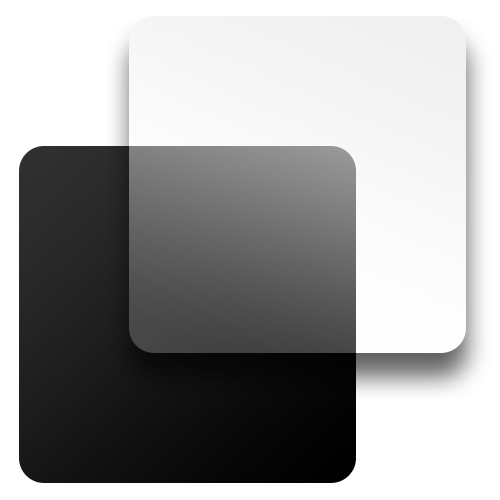
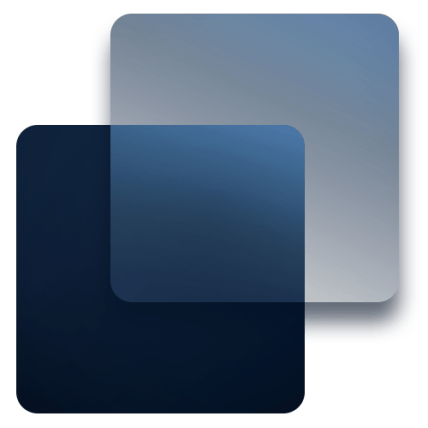
updates

diff --git a/factoryos-10x-shell/Views/Default10xBar.xaml b/factoryos-10x-shell/Views/Default10xBar.xaml
@@ -187,6 +187,7 @@
                 ToolTipService.ToolTip="Task">
                 <Button.Content>
                     <Image
+                        x:Name="taskviewcontent"
                         Width="26"
                         Height="26"
                         Source="ms-appx:///taskview.png"

diff --git a/DesktopMode/Program.cs b/DesktopMode/Program.cs
@@ -14,14 +14,42 @@ namespace DesktopMode
             // see https://aka.ms/applicationconfiguration.
             ApplicationConfiguration.Initialize();
 
-            ProcessStartInfo startInfo = new ProcessStartInfo("taskkill", "/f /im explorer.exe");
-            startInfo.CreateNoWindow = true;
-            startInfo.UseShellExecute = false;
+            KillProcess("factoryos-10x-shell");
+            KillProcess("MobileShellPlus");
+            KillProcess("explorer");
 
-            Process process = new Process();
-            process.StartInfo = startInfo;
-            process.Start();
+            // Restart explorer.exe
+            StartProcess("explorer.exe");
+        }
 
+        static void KillProcess(string processName)
+        {
+            foreach (var process in Process.GetProcessesByName(processName))
+            {
+                try
+                {
+                    process.Kill();
+                    process.WaitForExit();
+                    Console.WriteLine($"{processName} has been killed.");
+                }
+                catch (Exception ex)
+                {
+                    Console.WriteLine($"Error killing {processName}: {ex.Message}");
+                }
+            }
+        }
+
+        static void StartProcess(string processName)
+        {
+            try
+            {
+                Process.Start(processName);
+                Console.WriteLine($"{processName} has been started.");
+            }
+            catch (Exception ex)
+            {
+                Console.WriteLine($"Error starting {processName}: {ex.Message}");
+            }
         }
     }
 }

diff --git a/PowerDialogRewrite/App.xaml.cs b/PowerDialogRewrite/App.xaml.cs
@@ -38,7 +38,7 @@ namespace PowerDialogRewrite
         /// serão usados, por exemplo, quando o aplicativo for iniciado para abrir um arquivo específico.
         /// </summary>
         /// <param name="e">Detalhes sobre a solicitação e o processo de inicialização.</param>
-        protected override void OnLaunchedAsync(LaunchActivatedEventArgs e)
+        protected override void OnLaunched(LaunchActivatedEventArgs e)
         {
             Frame rootFrame = Window.Current.Content as Frame;
 
@@ -97,6 +97,7 @@ namespace PowerDialogRewrite
                 Window.Current.Activate();
             }
 
+            ApplicationView.PreferredLaunchWindowingMode = ApplicationViewWindowingMode.FullScreen;
             var view = ApplicationView.GetForCurrentView();
             view.FullScreenSystemOverlayMode = FullScreenSystemOverlayMode.Minimal;
 

diff --git a/factoryos-10x-shell/Views/Default10xBar.xaml.cs b/factoryos-10x-shell/Views/Default10xBar.xaml.cs
@@ -17,6 +17,7 @@ using factoryos_10x_shell.Services.Navigation;
 using factoryos_10x_shell.Library.Services.Navigation;
 using Windows.UI.Xaml.Media;
 using Windows.UI;
+using Windows.UI.Xaml.Media.Imaging;
 
 
 namespace factoryos_10x_shell.Views
@@ -28,6 +29,16 @@ namespace factoryos_10x_shell.Views
             this.InitializeComponent();
 
             DataContext = App.ServiceProvider.GetRequiredService<Default10xBarViewModel>();
+
+            if (this.RequestedTheme == ElementTheme.Light)
+            {
+                taskviewcontent.Source = new BitmapImage(new Uri("ms-appx:///taskview.png"));
+            }
+            else
+            {
+                taskviewcontent.Source = new BitmapImage(new Uri("ms-appx:///taskviewColorWide.png"));
+            }
+
         }
 
 

diff --git a/PowerDialogRewrite/MainPage.xaml.cs b/PowerDialogRewrite/MainPage.xaml.cs
@@ -6,6 +6,7 @@ using System.Runtime.InteropServices.WindowsRuntime;
 using Windows.Foundation;
 using Windows.Foundation.Collections;
 using Windows.System;
+using Windows.UI.ViewManagement;
 using Windows.UI.Xaml;
 using Windows.UI.Xaml.Controls;
 using Windows.UI.Xaml.Controls.Primitives;
@@ -26,6 +27,7 @@ namespace PowerDialogRewrite
         public MainPage()
         {
             this.InitializeComponent();
+            ApplicationView.PreferredLaunchWindowingMode = ApplicationViewWindowingMode.FullScreen;
         }
 
         private async void Restart_Click(object sender, RoutedEventArgs e)

diff --git a/MobileOS Update/MainPage.xaml.cs b/MobileOS Update/MainPage.xaml.cs
@@ -17,7 +17,7 @@ namespace MobileOS_Update
 {
     public sealed partial class MainPage : Page
     {
-        private const string CurrentVersion = "20841"; 
+        private const string CurrentVersion = "20842"; 
         private const string VersionFileUrl = "https://github.com/Pedro1234-code/MOS_updatefiles/releases/download/static/version.txt"; // URL to the version file
         private const string PackageUrl = "https://github.com/Pedro1234-code/MOS_updatefiles/releases/download/static/latest.zip"; // URL to the update package
 

diff --git a/MobileOS Update/App.xaml.cs b/MobileOS Update/App.xaml.cs
@@ -37,7 +37,7 @@ namespace MobileOS_Update
         /// serão usados, por exemplo, quando o aplicativo for iniciado para abrir um arquivo específico.
         /// </summary>
         /// <param name="e">Detalhes sobre a solicitação e o processo de inicialização.</param>
-        protected override void OnLaunchedAsync(LaunchActivatedEventArgs e)
+        protected override void OnLaunched(LaunchActivatedEventArgs e)
         {
             Frame rootFrame = Window.Current.Content as Frame;
 
